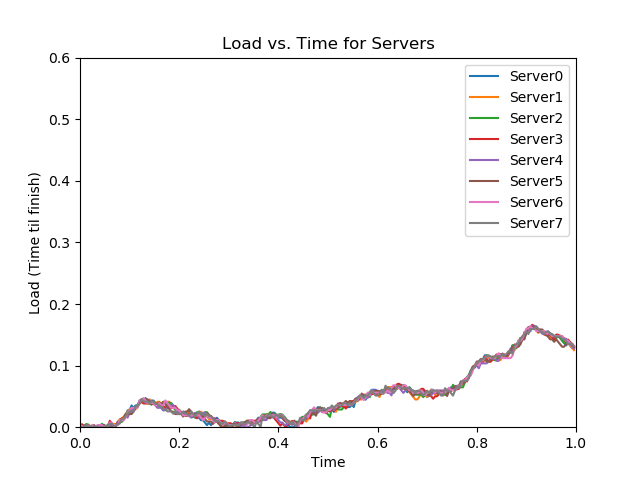
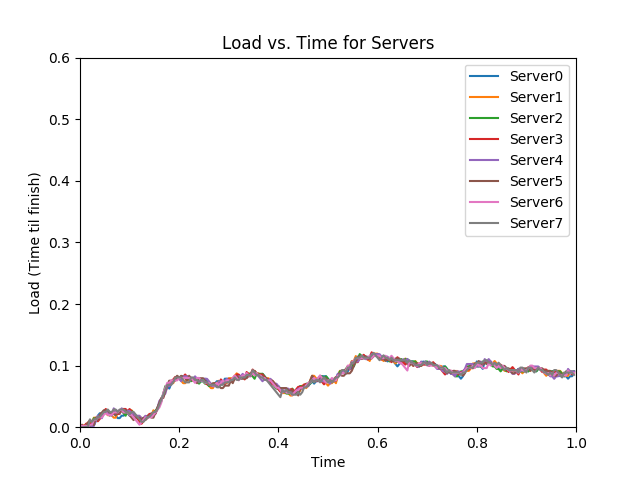
idk

diff --git a/main.py b/main.py
@@ -23,7 +23,10 @@ num_servers = 8
 processing_time = 0.004
 
 #value for powers of x choices
-powers_of_x_value = 3
+powers_of_x_value = 8
+
+#whether or not a load balancer drops
+LOAD_BALANCER_DROPS = False
 
 
 '''
@@ -270,10 +273,13 @@ def run_simulation(assignment_method):
 	for i in range(len(packets)):
 		packet = packets[i]
 
-		if i < len(packets)/2:
+		if LOAD_BALANCER_DROPS:
+			if i < len(packets)/2:
+				lb_id = packet.clientid % num_load_balancers
+			else: #last load balancer "goes down"
+				lb_id = packet.clientid % (num_load_balancers - 1)
+		else:
 			lb_id = packet.clientid % num_load_balancers
-		else: #last load balancer "goes down"
-			lb_id = packet.clientid % (num_load_balancers - 1
 
 		load_balancer = load_balancers[lb_id]
 		switcher = {
